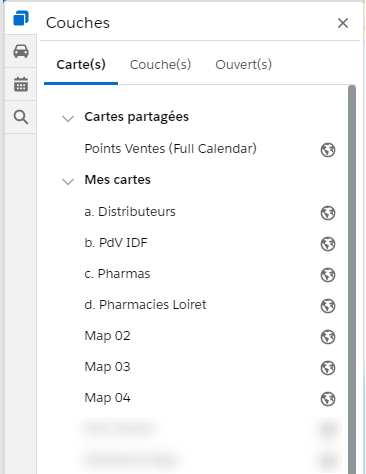
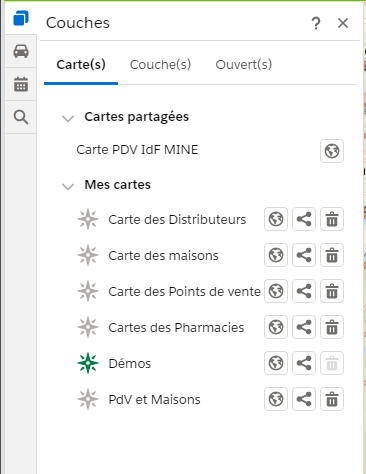
Add map sharing and change assets

diff --git a/_pages/fr/std/user/v2/objects.md b/_pages/fr/std/user/v2/objects.md
@@ -23,7 +23,52 @@ ref: lightning-objects
 
 {:.table.table-bordered}
 |![Galigeo for Salesforce User]({{ site.url }}/assets/img-std-v2/user/icons/icon_map.png){:.img.img-center}|Charge une carte ou une couche. Lorsqu'une carte est chargée, le contenu de la carte est effacé et remplacé par la carte. Il est toujours possible de rajouter des couches ensuite |
+|![Galigeo for Salesforce User]({{ site.url }}/assets/img-std-v2/user/icons/icon_share.png){:.img.img-center}|Gestion du partage de la carte |
+|![Galigeo for Salesforce User]({{ site.url }}/assets/img-std-v2/user/icons/icon_delete.png){:.img.img-center}|Suppression d'une carte |
 |![Galigeo for Salesforce User]({{ site.url }}/assets/img-std-v2/user/icons/icon_settings.png){:.img.img-center}|Accès à une configuration |
+
+# Gestion des cartes
+
+Une carte est un élément composé de couches (ou objets cartographiables).
+
+Cet onglet présente deux sections
+
+- la liste des cartes qui ont été partagées par un autre utilisateur avec celui connecté
+- la liste des cartes de l'utilisateur courant
+
+Pour toutes les cartes, il est possible de les charger en cliquant sur l'icône ![Galigeo for Salesforce User]({{ site.url }}/assets/img-std-v2/user/icons/icon_map.png). 
+
+Pour chacunes des cartes définis par l'utilsateur, il possible de:
+
+{:.table.table-bordered}
+|![Galigeo for Salesforce User]({{ site.url }}/assets/img-std-v2/user/icons/icon_share.png){:.img.img-center}| gérer le partage avec des utilisateurs ou des groupes |
+|![Galigeo for Salesforce User]({{ site.url }}/assets/img-std-v2/user/icons/icon_delete.png){:.img.img-center}| supprimer une carte |
+|![Galigeo for Salesforce User]({{ site.url }}/assets/img-std-v2/user/icons/icon_fav_map.png){:.img.img-center} ![Galigeo for Salesforce User]({{ site.url }}/assets/img-std-v2/user/icons/icon_fav_map_selected.png){:.img.img-center}| définir une carte comme favorite pour la charger au démarrage par simple clic sur cet icône. Une icône verte indique que c'est la carte favorite |
+
+## Création d'une carte
+
+Après avoir charger des objets, l'utilsateur a la possibilité d'enregistrer cet ensemble comme une carte en cliquant sur l'icône ![Galigeo for Salesforce User]({{ site.url }}/assets/img-std-v2/user/icons/icon_save.png). 
+
+![New Map]({{ site.url }}/assets/img-std-v2/user/map/new_map_01.png){:.img.img-responsive.img-center}
+
+<div class="alert alert-info" role="alert">Les cartes partagées ne sont accessibles qu'en lecture seule. L'utilisateur ne peut que les charger. L'utilisateur peut utiliser la fonctionnalité "Enregistrer sous" pour en faire une copie.</div>
+
+## Partage d'une carte
+
+En cliquant sur l'icône ![Galigeo for Salesforce User]({{ site.url }}/assets/img-std-v2/user/icons/icon_share.png), une fenêtre s'affiche contenant la liste des utilisateurs et des groupes avec lesquels un partage est fait.
+![New Share]({{ site.url }}/assets/img-std-v2/user/map/map_share_01.png){:.img.img-responsive.img-center.img-bordered}
+
+Pour rajouter un partage, il faut cliquer sur l'icône ![Galigeo for Salesforce User]({{ site.url }}/assets/img-std-v2/user/icons/icon_add.png) pour que la fenêtre d'ajout s'affiche. Dans celle-ci,
+- Choisissez une catégorie: utilisateurs ou groupes 
+- Choisissez parmi les éléments 
+- cliquez sur le bouton "Enregistrer"
+
+![New Share]({{ site.url }}/assets/img-std-v2/user/map/map_share_02.png){:.img.img-responsive.img-center.img-bordered}
+
+Une fois l'ajout des utilisateurs (ou groupes) terminé, le contenu se rafraîchit 
+
+![New Share]({{ site.url }}/assets/img-std-v2/user/map/map_share_03.png){:.img.img-responsive.img-center.img-bordered}
+
 
 # Gestion des objets ouverts
 
@@ -101,6 +146,8 @@ Pour chacune des couches ouvertes, le tableau de données permet:
 - de filtrer par colonne (liste de valeur le nombre, devises, date/dateime)
 
 L'activation de ces filtres modifie l'affichage des objets sur la carte.
+
+<div class="alert alert-info" role="alert">Pour tous les tableaux de données des objets salesforce chargés, la première colonne et l'entête du tableau sont figés.</div>
 
 ### Filtrage par mot clé sur le nom
 
